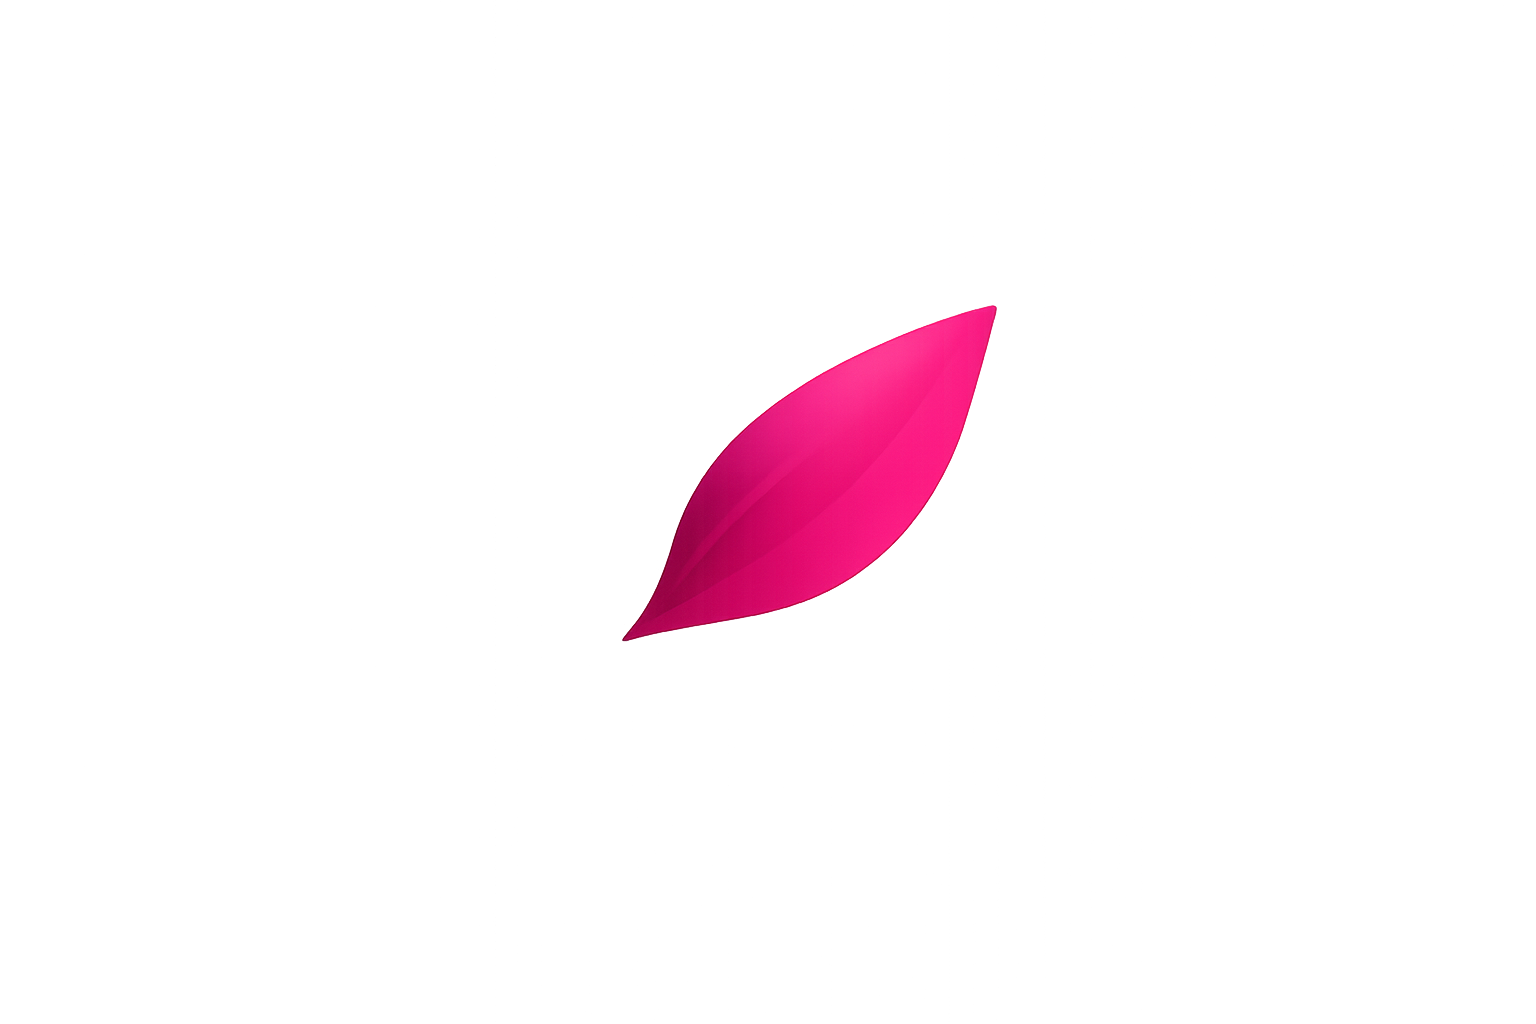
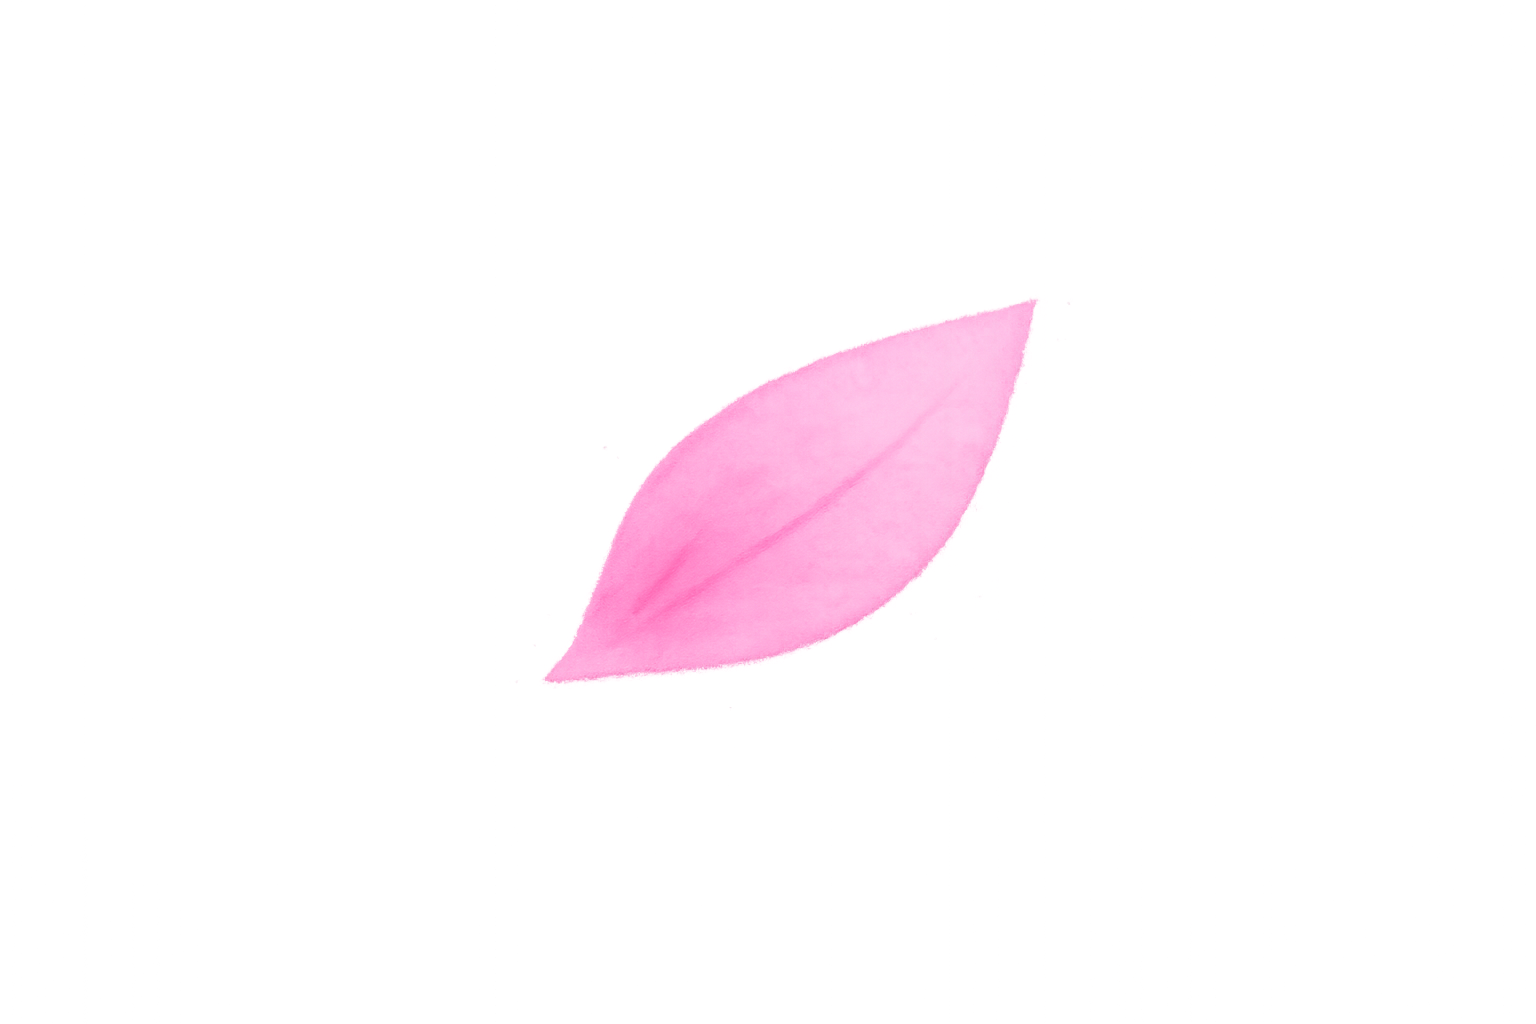
UI tweaks to color + font

Changed region(s): [[0.3438, 0.2812, 0.6875, 0.6875]]

diff --git a/frontend/src/App.js b/frontend/src/App.js
@@ -30,7 +30,7 @@ function App() {
     const value = getComputedStyle(document.documentElement)
       .getPropertyValue('--accent-primary')
       .trim();
-    return value || '#8f2f5a';
+    return value || '#F3B8CF';
   };
 
   const adjustHex = (hex, amount) => {
@@ -169,7 +169,7 @@ function App() {
 
   const pickTextColor = (hex) => {
     const white = '#FFFFFF';
-    const nearBlack = '#101014';
+    const nearBlack = '#3C2F33';
     const whiteContrast = contrastRatio(hex, white);
     const blackContrast = contrastRatio(hex, nearBlack);
     return whiteContrast >= blackContrast ? white : nearBlack;
@@ -210,11 +210,14 @@ function App() {
     const lumPrimary = relativeLuminance(bgPrimary);
     const lumSecondary = relativeLuminance(bgSecondary);
     const targetBg = lumPrimary >= lumSecondary ? bgPrimary : bgSecondary;
-    const minRatio = 4.5;
-    const accent = ensureContrast(hex, targetBg, minRatio);
-    const hover = adjustHex(accent, -18);
-    const secondary = adjustLightness(accent, lumPrimary > 0.5 ? 0.14 : -0.14);
-    const highlight = mixHex(accent, targetBg, lumPrimary > 0.5 ? 0.14 : 0.22);
+    const isLightTheme = lumPrimary > 0.5;
+    const minRatio = isLightTheme ? 3.2 : 4.5;
+    const contrastSafe = ensureContrast(hex, targetBg, minRatio);
+    const softened = isLightTheme ? mixHex(contrastSafe, targetBg, 0.88) : contrastSafe;
+    const accent = isLightTheme ? ensureContrast(softened, targetBg, minRatio) : softened;
+    const hover = isLightTheme ? adjustHex(accent, -8) : adjustHex(accent, -18);
+    const secondary = adjustLightness(accent, isLightTheme ? 0.08 : -0.14);
+    const highlight = mixHex(accent, targetBg, isLightTheme ? 0.08 : 0.22);
     const contrast = pickTextColor(accent);
     return { accent, hover, secondary, highlight, contrast };
   };
@@ -317,6 +320,60 @@ function App() {
       applyAccentColor(null);
     }
   }, [user, API_URL]);
+
+  useEffect(() => {
+    const root = document.documentElement;
+    const easterClass = 'easter-script';
+    const storageKey = 'ada:easter-script-enabled';
+    const sequence = ['a', 'd', 'a'];
+    let buffer = [];
+    let resetTimer = null;
+
+    if (localStorage.getItem(storageKey) === '1') {
+      root.classList.add(easterClass);
+    }
+
+    const onKeyDown = (event) => {
+      const target = event.target;
+      const isTypingField = target && (
+        target.tagName === 'INPUT' ||
+        target.tagName === 'TEXTAREA' ||
+        target.isContentEditable
+      );
+      if (isTypingField) return;
+
+      const key = String(event.key || '').toLowerCase();
+      if (!key || key.length !== 1) return;
+
+      buffer.push(key);
+      if (buffer.length > sequence.length) {
+        buffer = buffer.slice(-sequence.length);
+      }
+
+      if (resetTimer) {
+        clearTimeout(resetTimer);
+      }
+      resetTimer = setTimeout(() => {
+        buffer = [];
+      }, 1400);
+
+      const matched = sequence.every((char, idx) => buffer[idx] === char);
+      if (!matched) return;
+
+      const nextEnabled = !root.classList.contains(easterClass);
+      root.classList.toggle(easterClass, nextEnabled);
+      localStorage.setItem(storageKey, nextEnabled ? '1' : '0');
+      buffer = [];
+    };
+
+    window.addEventListener('keydown', onKeyDown);
+    return () => {
+      window.removeEventListener('keydown', onKeyDown);
+      if (resetTimer) {
+        clearTimeout(resetTimer);
+      }
+    };
+  }, []);
 
   const handleLogin = (data) => {
     setUser(data.user);

diff --git a/frontend/src/index.css b/frontend/src/index.css
@@ -5,14 +5,15 @@
 :root {
   /* Font stack variables */
   --font-display: "Canela", "Libre Baskerville", "Georgia", serif;
+  --font-display-script: "La Belle Aurore", "Bradley Hand", "Snell Roundhand", cursive;
   --font-body: "Source Serif 4", "Charter", "Georgia", serif;
   --font-ui: "Source Sans 3", "Inter", system-ui, -apple-system, BlinkMacSystemFont, "Segoe UI", Roboto, Arial, sans-serif;
 
   --radius-base: 6px;
   --radius-tight: 3px;
-  --nav-height: 72px;
-  --nav-pill-height: 72px;
-  --nav-item-height: 32px;
+  --nav-height: 56px;
+  --nav-pill-height: 56px;
+  --nav-item-height: 28px;
   --nav-glass-bg: #ffffff;
   --nav-glass-border: #e3e3e7;
   --nav-glass-shadow: none;
@@ -32,10 +33,10 @@
   --text-secondary: #6b6b78;
   --text-muted: #6b6b78;
   --border-color: #e3e3e7;
-  --accent-primary-default: #D96B8A;
-  --accent-hover-default: #C25A77;
-  --accent-secondary-default: #E89DB2;
-  --accent-highlight-default: #faedf1;
+  --accent-primary-default: #EBC7D8;
+  --accent-hover-default: #D7AEC0;
+  --accent-secondary-default: #F3E1E9;
+  --accent-highlight-default: #FCF8FA;
   --accent-contrast-default: #ffffff;
   --accent-primary: var(--accent-primary-custom, var(--accent-primary-default));
   --accent-hover: var(--accent-hover-custom, var(--accent-hover-default));
@@ -56,10 +57,10 @@
   --text-secondary: #c8c8d0;
   --text-muted: #a9a9b4;
   --border-color: #3a3a41;
-  --accent-primary-default: #D96B8A;
-  --accent-hover-default: #C25A77;
-  --accent-secondary-default: #E89DB2;
-  --accent-highlight-default: #3a1e27;
+  --accent-primary-default: #F3B8CF;
+  --accent-hover-default: #B26C82;
+  --accent-secondary-default: #DEAFC0;
+  --accent-highlight-default: #39242d;
   --accent-contrast-default: #ffffff;
   --accent-primary: var(--accent-primary-custom-dark, var(--accent-primary-default));
   --accent-hover: var(--accent-hover-custom-dark, var(--accent-hover-default));
@@ -104,7 +105,21 @@ h1, h2, h3, h4, h5, h6 {
 }
 
 h1 {
+  font-family: var(--font-display);
   font-size: 2.5rem;
+}
+
+html.easter-script h1,
+html.easter-script .hero-title,
+html.easter-script .auth-title,
+html.easter-script .not-found-title,
+html.easter-script .search-hero h1,
+html.easter-script .user-settings-header h1,
+html.easter-script .documents-hero h1,
+html.easter-script .workspaces-hero h1,
+html.easter-script .ai-header h1 {
+  font-family: var(--font-display-script) !important;
+  font-weight: 400;
 }
 
 h2 {

diff --git a/frontend/src/pages/Documents.css b/frontend/src/pages/Documents.css
@@ -89,7 +89,7 @@
 .modal {
   background: var(--bg-primary, #ffffff);
   border-radius: var(--radius-lg, 12px);
-  box-shadow: 0 20px 60px rgba(0, 0, 0, 0.15);
+  box-shadow: 0 20px 60px rgba(60, 47, 51, 0.15);
   width: 94vw;
   max-width: 720px;
   min-width: 360px;
@@ -164,7 +164,7 @@
   left: 0;
   right: 0;
   bottom: 0;
-  background: rgba(0, 0, 0, 0.5);
+  background: rgba(60, 47, 51, 0.5);
   display: flex;
   align-items: center;
   justify-content: center;
@@ -690,12 +690,12 @@
   width: 28px;
   height: 28px;
   border-radius: 6px;
-  border: 2px solid rgba(0,0,0,0.06);
+  border: 2px solid rgba(60, 47, 51, 0.06);
   cursor: pointer;
 }
 
 .swatch.selected {
-  box-shadow: 0 0 0 3px rgba(0,0,0,0.06);
+  box-shadow: 0 0 0 3px rgba(60, 47, 51, 0.06);
   transform: translateY(-1px);
 }
 
@@ -835,7 +835,7 @@
   border-radius: 8px;
   background: var(--bg-primary);
   border: 1px solid var(--border-color, #e0e6ed);
-  box-shadow: 0 4px 12px rgba(0, 0, 0, 0.08);
+  box-shadow: 0 4px 12px rgba(60, 47, 51, 0.08);
 }
 
 .create-container-panel .panel-header {
@@ -868,7 +868,7 @@
 }
 
 .create-container-panel .swatch.selected {
-  box-shadow: 0 0 0 3px rgba(0,0,0,0.06) inset;
+  box-shadow: 0 0 0 3px rgba(60, 47, 51, 0.06) inset;
   transform: translateY(-2px);
 }
 
@@ -1027,7 +1027,7 @@
 .container-card:hover {
   transform: translateY(-3px);
   border-color: var(--accent-primary);
-  box-shadow: 0 4px 12px rgba(0, 0, 0, 0.08);
+  box-shadow: 0 4px 12px rgba(60, 47, 51, 0.08);
 }
 
 .container-card.default-workspace {
@@ -1053,7 +1053,7 @@
   display: flex;
   align-items: center;
   justify-content: center;
-  border: 1px solid rgba(0,0,0,0.04);
+  border: 1px solid rgba(60, 47, 51, 0.04);
   flex-shrink: 0;
 }
 
@@ -1318,7 +1318,7 @@
   margin-top: 0.5rem;
   z-index: 100;
   min-width: 180px;
-  box-shadow: 0 4px 12px rgba(0, 0, 0, 0.1);
+  box-shadow: 0 4px 12px rgba(60, 47, 51, 0.1);
 }
 
 .sort-option {
@@ -1808,7 +1808,7 @@
   height: 95vh;
   max-width: 1600px;
   max-height: 95vh;
-  box-shadow: 0 20px 60px rgba(0, 0, 0, 0.3);
+  box-shadow: 0 20px 60px rgba(60, 47, 51, 0.3);
 }
 
 .preview-header {

diff --git a/frontend/src/pages/WorkspaceSettings.css b/frontend/src/pages/WorkspaceSettings.css
@@ -6,7 +6,7 @@
   left: 0;
   right: 0;
   bottom: 0;
-  background: rgba(0, 0, 0, 0.5);
+  background: rgba(60, 47, 51, 0.5);
   display: flex;
   align-items: center;
   justify-content: center;
@@ -21,7 +21,7 @@
   width: 90%;
   max-height: 80vh;
   overflow-y: auto;
-  box-shadow: 0 4px 6px rgba(0, 0, 0, 0.1);
+  box-shadow: 0 4px 6px rgba(60, 47, 51, 0.1);
 }
 
 .settings-header {
@@ -62,7 +62,7 @@
   background: var(--status-error);
   color: white;
   margin: 0;
-  border-bottom: 1px solid rgba(0, 0, 0, 0.2);
+  border-bottom: 1px solid rgba(60, 47, 51, 0.2);
 }
 
 .settings-form {
@@ -322,7 +322,7 @@
   left: 0;
   right: 0;
   bottom: 0;
-  background: rgba(0, 0, 0, 0.5);
+  background: rgba(60, 47, 51, 0.5);
   display: flex;
   align-items: center;
   justify-content: center;
@@ -336,7 +336,7 @@
   padding: 1.5rem;
   max-width: 400px;
   width: 90%;
-  box-shadow: 0 4px 6px rgba(0, 0, 0, 0.1);
+  box-shadow: 0 4px 6px rgba(60, 47, 51, 0.1);
 }
 
 .modal-box h3 {

diff --git a/frontend/public/index.html b/frontend/public/index.html
@@ -6,7 +6,7 @@
     <meta name="theme-color" content="#000000" />
     <meta name="description" content="Ada" />
     <link rel="icon" type="image/png" href="%PUBLIC_URL%/favicon.png" />
-    <link href="https://fonts.googleapis.com/css2?family=Canela:wght@400;500;600;700&family=Libre+Baskerville:ital,wght@0,400;0,700;1,400&family=Source+Serif+4:ital,wght@0,400;0,600;0,700;1,400&family=Inter:wght@300;400;500;600;700&display=swap" rel="stylesheet">
+    <link href="https://fonts.googleapis.com/css2?family=Canela:wght@400;500;600;700&family=La+Belle+Aurore&family=Libre+Baskerville:ital,wght@0,400;0,700;1,400&family=Source+Serif+4:ital,wght@0,400;0,600;0,700;1,400&family=Inter:wght@300;400;500;600;700&display=swap" rel="stylesheet">
     <title>Ada</title>
   </head>
   <body>

diff --git a/frontend/src/pages/Workspaces.css b/frontend/src/pages/Workspaces.css
@@ -144,7 +144,7 @@
   left: 0;
   right: 0;
   bottom: 0;
-  background: rgba(0, 0, 0, 0.5);
+  background: rgba(60, 47, 51, 0.5);
   display: flex;
   align-items: center;
   justify-content: center;
@@ -533,7 +533,7 @@
   background: var(--bg-primary);
   border: 1px solid var(--border-color);
   border-radius: var(--radius-base);
-  box-shadow: 0 10px 25px rgba(0, 0, 0, 0.08);
+  box-shadow: 0 10px 25px rgba(60, 47, 51, 0.08);
   padding: 0.35rem;
   display: grid;
   gap: 0.2rem;

diff --git a/frontend/src/components/Navigation.css b/frontend/src/components/Navigation.css
@@ -4,7 +4,7 @@
   left: 0;
   right: 0;
   z-index: 1000;
-  padding: 12px 20px;
+  padding: 6px 20px;
   pointer-events: none;
   border-bottom: 1px solid var(--border-color);
   background: color-mix(in srgb, var(--bg-primary) 85%, transparent);
@@ -55,7 +55,7 @@
 }
 
 .nav-logo-img {
-  height: 64px;
+  height: 46px;
   width: auto;
   display: block;
   transition: transform 0.2s ease, opacity 0.2s ease;

diff --git a/frontend/src/pages/UserSettings.css b/frontend/src/pages/UserSettings.css
@@ -178,8 +178,8 @@
 }
 
 .accent-save:hover {
-  background: var(--accent-hover, #C25A77);
-  border-color: var(--accent-hover, #C25A77);
+  background: var(--accent-hover, #B26C82);
+  border-color: var(--accent-hover, #B26C82);
 }
 
 .accent-save:disabled {

diff --git a/frontend/src/pages/WorkspaceIssues.css b/frontend/src/pages/WorkspaceIssues.css
@@ -51,7 +51,7 @@
   color: white;
   border-radius: var(--radius-base);
   margin-bottom: 1.5rem;
-  border: 1px solid rgba(0, 0, 0, 0.2);
+  border: 1px solid rgba(60, 47, 51, 0.2);
 }
 
 /* Filter Controls */

diff --git a/frontend/src/pages/AIAssistant.css b/frontend/src/pages/AIAssistant.css
@@ -616,7 +616,7 @@
 
 .summary-card:hover {
   border-color: var(--accent-primary);
-  box-shadow: 0 2px 8px rgba(0, 0, 0, 0.08);
+  box-shadow: 0 2px 8px rgba(60, 47, 51, 0.08);
 }
 
 .summary-header {

diff --git a/frontend/src/pages/Notifications.css b/frontend/src/pages/Notifications.css
@@ -138,7 +138,7 @@
 }
 
 .notification-card:hover {
-  box-shadow: 0 2px 8px rgba(0, 0, 0, 0.08);
+  box-shadow: 0 2px 8px rgba(60, 47, 51, 0.08);
   border-color: #d0d0d0;
 }
 
